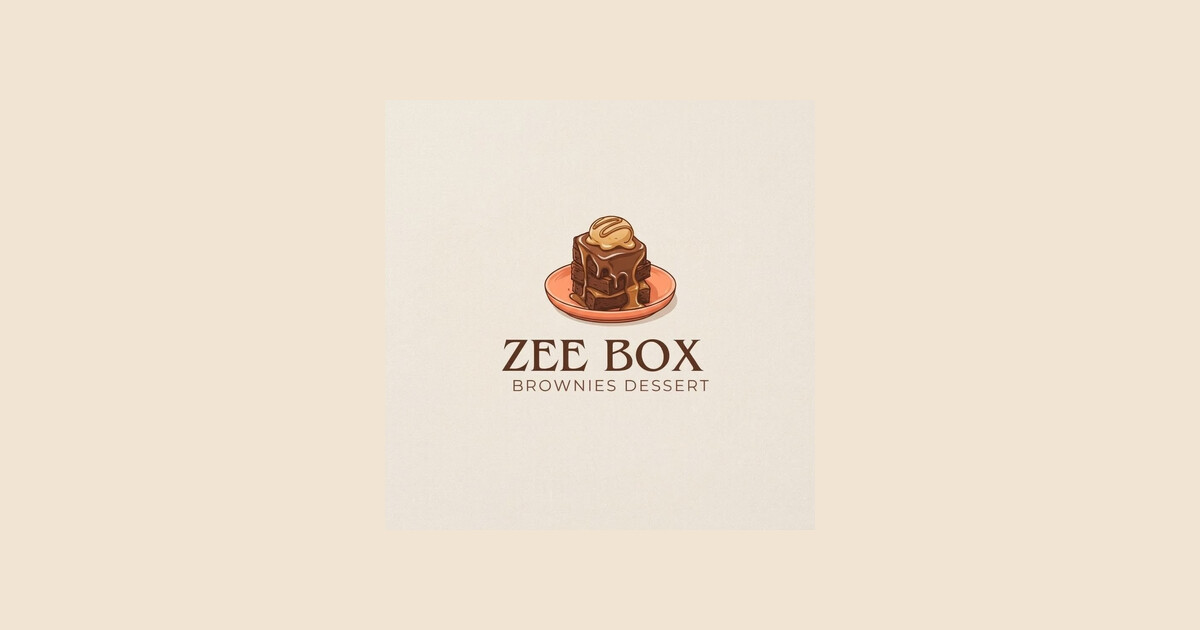
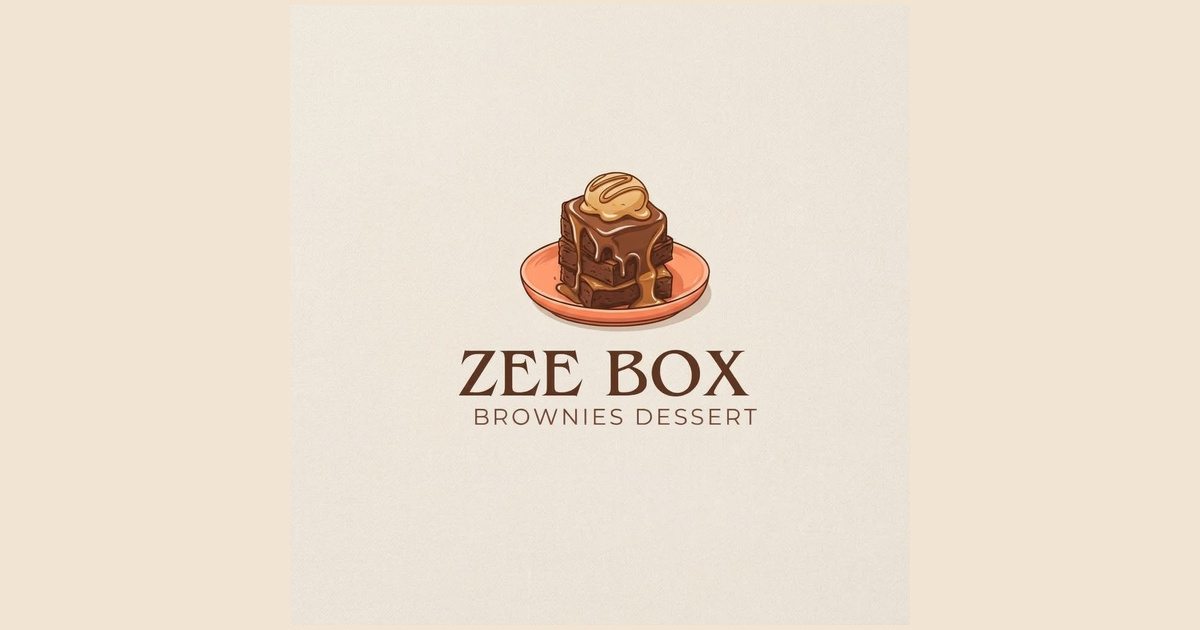
Improve social preview image quality

Changed region(s): [[0.37, 0.2714, 0.6167, 0.6937]]

diff --git a/index.html b/index.html
@@ -10,14 +10,14 @@
   <meta property="og:title" content="Brownies. That's it. | Zee Box">
   <meta property="og:description" content="Good chocolate.">
   <meta property="og:url" content="https://omarromran.github.io/zeebox.co/">
-  <meta property="og:image" content="https://omarromran.github.io/zeebox.co/assets/brand/logo.jpg">
+  <meta property="og:image" content="https://omarromran.github.io/zeebox.co/assets/brand/social-preview.jpg?v=3">
   <meta property="og:image:type" content="image/jpeg">
-  <meta property="og:image:width" content="1024">
-  <meta property="og:image:height" content="1024">
+  <meta property="og:image:width" content="1200">
+  <meta property="og:image:height" content="630">
   <meta property="og:image:alt" content="Zee Box logo">
   <meta name="twitter:card" content="summary">
   <meta name="twitter:title" content="Brownies. That's it. | Zee Box">
-  <meta name="twitter:image" content="https://omarromran.github.io/zeebox.co/assets/brand/logo.jpg">
+  <meta name="twitter:image" content="https://omarromran.github.io/zeebox.co/assets/brand/social-preview.jpg?v=3">
   <link rel="preconnect" href="https://fonts.googleapis.com">
   <link rel="preconnect" href="https://fonts.gstatic.com" crossorigin>
   <title>Brownies. That's it. | Zee Box</title>
@@ -32,14 +32,15 @@
   <header class="site-header">
     <a class="brand" href="#top"><img src="assets/brand/logo.jpg" alt="Zee Box"></a>
     <nav class="desktop-nav">
-      <a href="#product">Product</a>
+      <a href="#product">Menu</a>
       <a href="https://www.instagram.com/zeebox.co/" target="_blank" rel="noreferrer">Instagram</a>
     </nav>
     <button class="cart-trigger" data-open-cart>Cart <b data-cart-count>0</b></button>
   </header>
   <div class="announcement-bar" role="note">Need them today? Same-day orders are available when placed before 7:00 AM
     <br>
-    Delivery via Uber · Delivery fees paid by the customer</div>
+    Delivery via Uber · Delivery fees paid by the customer
+  </div>
   <main id="top">
     <section class="hero">
       <div class="hero-media">
